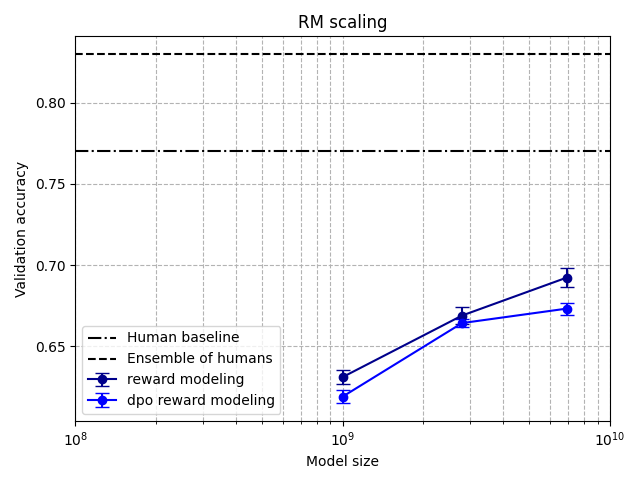
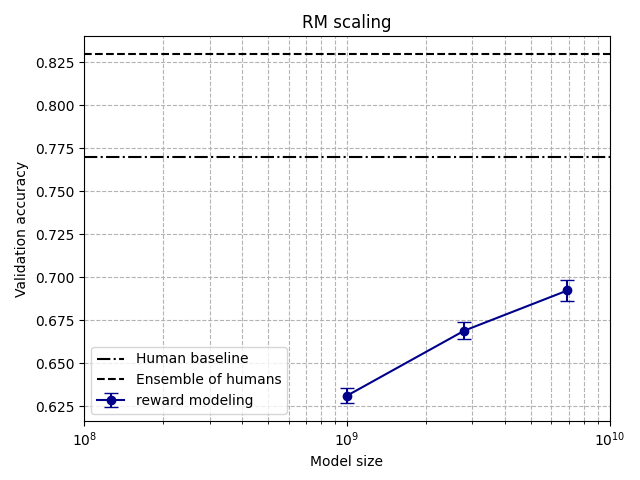
remove dpo reward accuracy stuff

diff --git a/eval/rm_sft_scale.py b/eval/rm_sft_scale.py
@@ -87,16 +87,16 @@ df = get_runs_df(wandb.Api().runs(
     }
 ))
 plot_reward(df, colors[0], "reward modeling")
-df2 = get_runs_df(wandb.Api().runs(
-    path=f"costa-huang/tldr_summarize",
-    filters={
-        "$and": [
-            {f"config.exp_name.value": "dpo"},
-            {"tags": {"$in": ["refactor111"]}},
-        ]
-    }
-))
-plot_reward(df2, colors[1], "dpo reward modeling")
+# df2 = get_runs_df(wandb.Api().runs(
+#     path=f"costa-huang/tldr_summarize",
+#     filters={
+#         "$and": [
+#             {f"config.exp_name.value": "dpo"},
+#             {"tags": {"$in": ["refactor111"]}},
+#         ]
+#     }
+# ))
+# plot_reward(df2, colors[1], "dpo reward modeling")
 # df2 = get_runs_df(wandb.Api().runs(
 #     path=f"costa-huang/tldr_summarize",
 #     filters={
